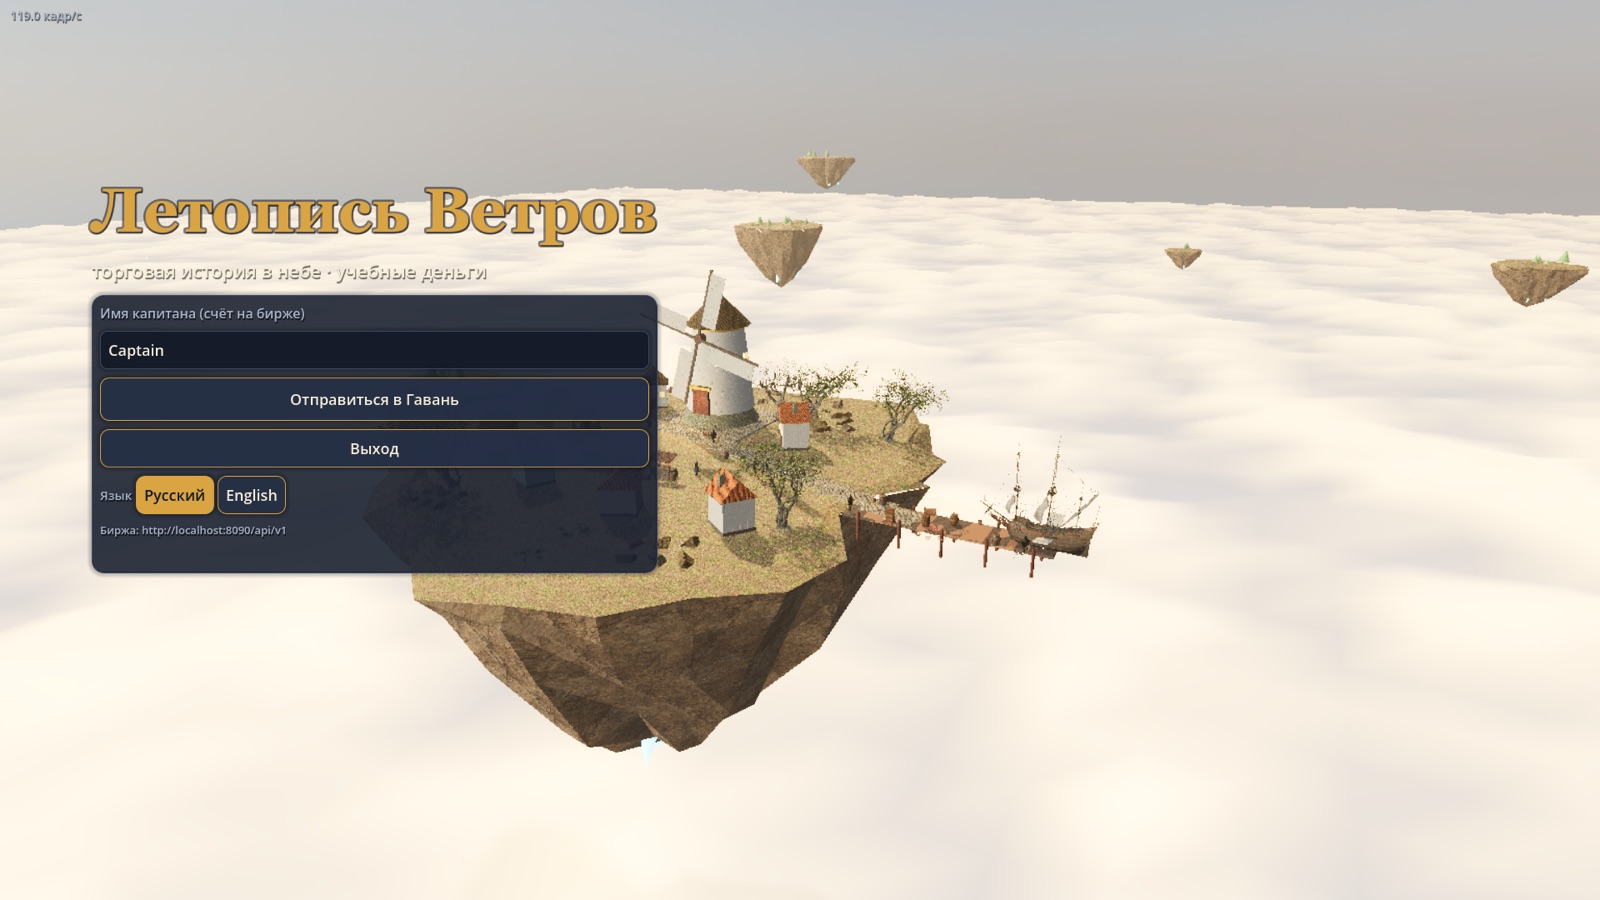
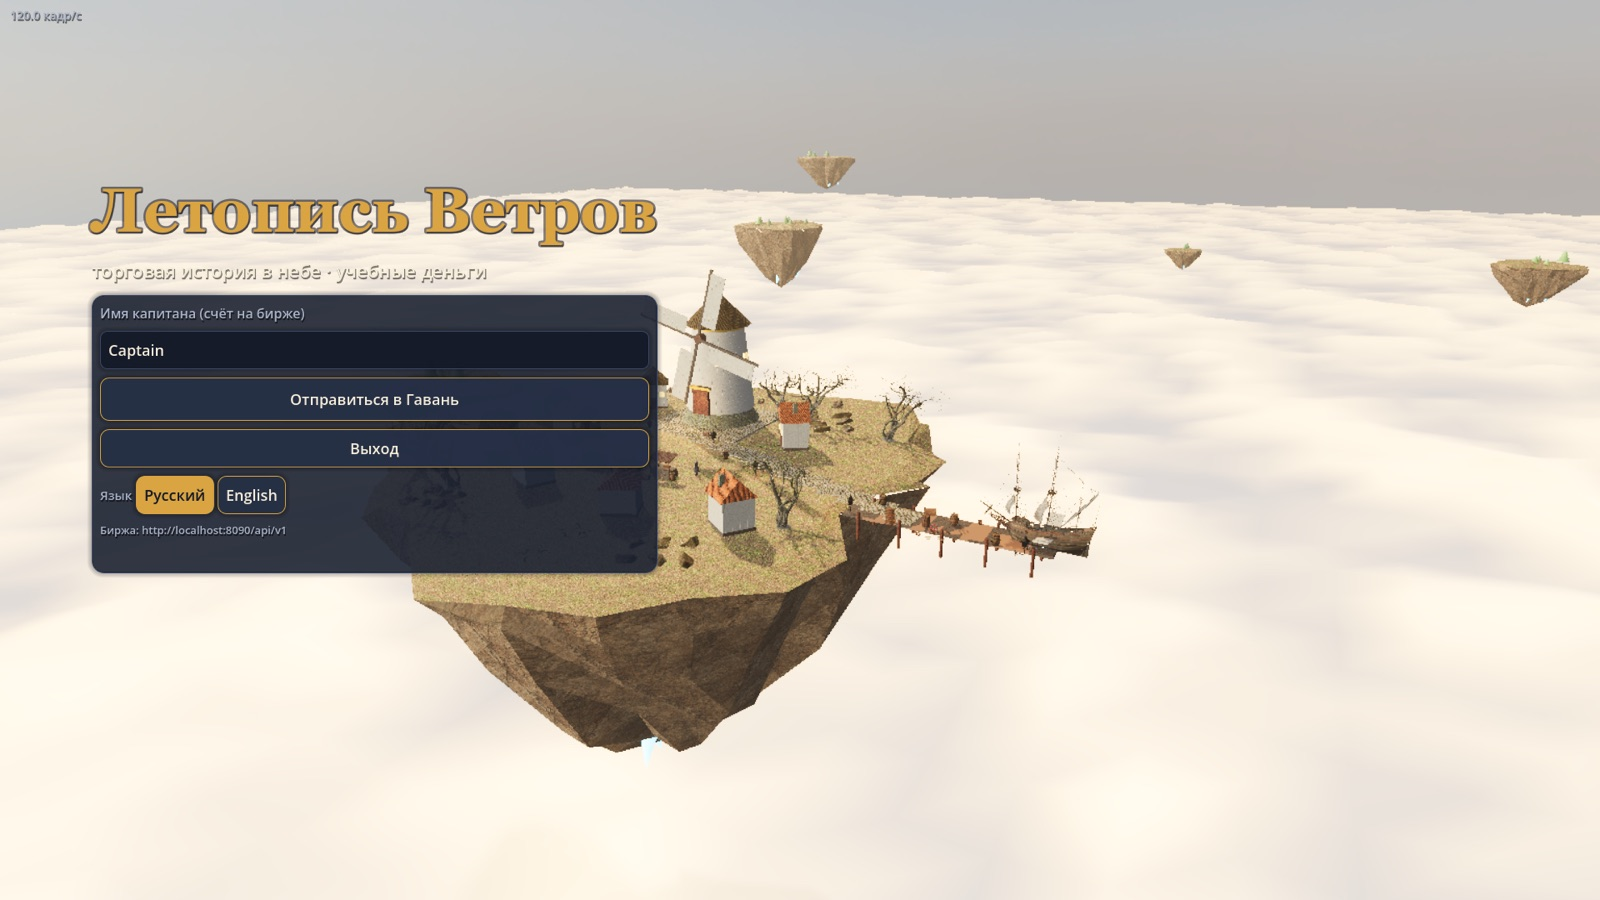
game3d: hold 60 fps in the harbour — thinned tree foliage, LOD threshold, half-res GI

diff --git a/docs/demo/G3D.md b/docs/demo/G3D.md
@@ -12,7 +12,7 @@ make game3d         # opens the 3D client
 ```
 Another port: `cd game3d && godot --path . -- --server=http://localhost:8090`. `F3` shows fps.
 
-Self-run demo that produced the screenshots below (Apple M5, 1920×1080, Forward+/Metal, FSR 2 at 0.8; fps is in the top-left corner of each shot: menu, hall and voyage 90–120, harbour 41–56 — the harbour is below the 60 fps target in some views):
+Self-run demo that produced the screenshots below (Apple M5, 1920×1080, Forward+/Metal, FSR 2 at 0.8; fps is in the top-left corner of each shot: menu, hall and voyage 90–120, harbour 71–81; the worst harbour view measured steady at 65 fps):
 ```
 cd game3d && godot --path . --resolution 1920x1080 --always-on-top -- --server=http://localhost:8090 --demo=../docs/demo/g3d
 ```

diff --git a/DECISIONS.md b/DECISIONS.md
@@ -170,3 +170,6 @@ Build and CI
 - `Idempotency-Key` stays on `POST /orders` only; the new POSTs (stops, positions, deposits) have none yet.
 - Mobile has no leverage screen in M2a (web has it); mobile helpers in `src/finance.ts` are imported by `node --test`
   directly from TypeScript (Node ≥ 23.6 strips types).
+- game3d harbour fps (ADR-0019): the Poly Haven tree carries ~700k leaf triangles drawn with a depth pre-pass and no
+  LODs after load, which cost ~30 fps. `Assets.thinned()` keeps every 3rd leaf card, switches leaves to alpha scissor and
+  regenerates LODs; plus LOD threshold 6 px and half-resolution GI. Worst harbour view: 41 → 65 fps (Apple M5, 1080p).
